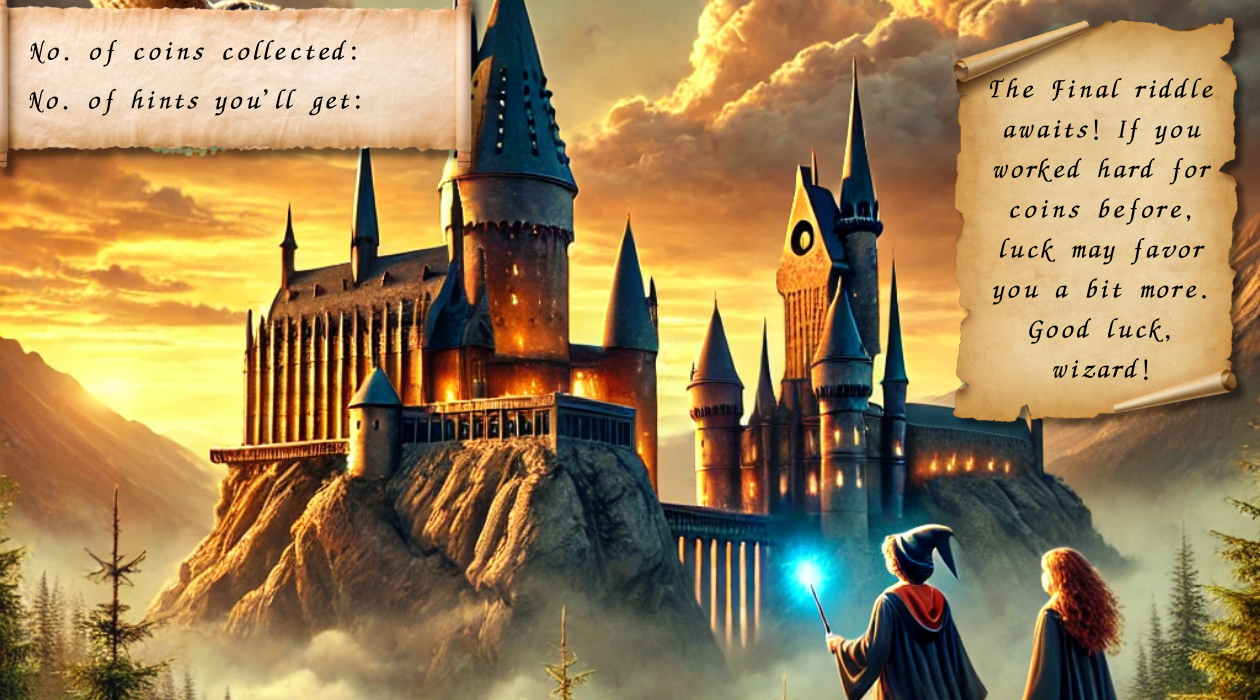
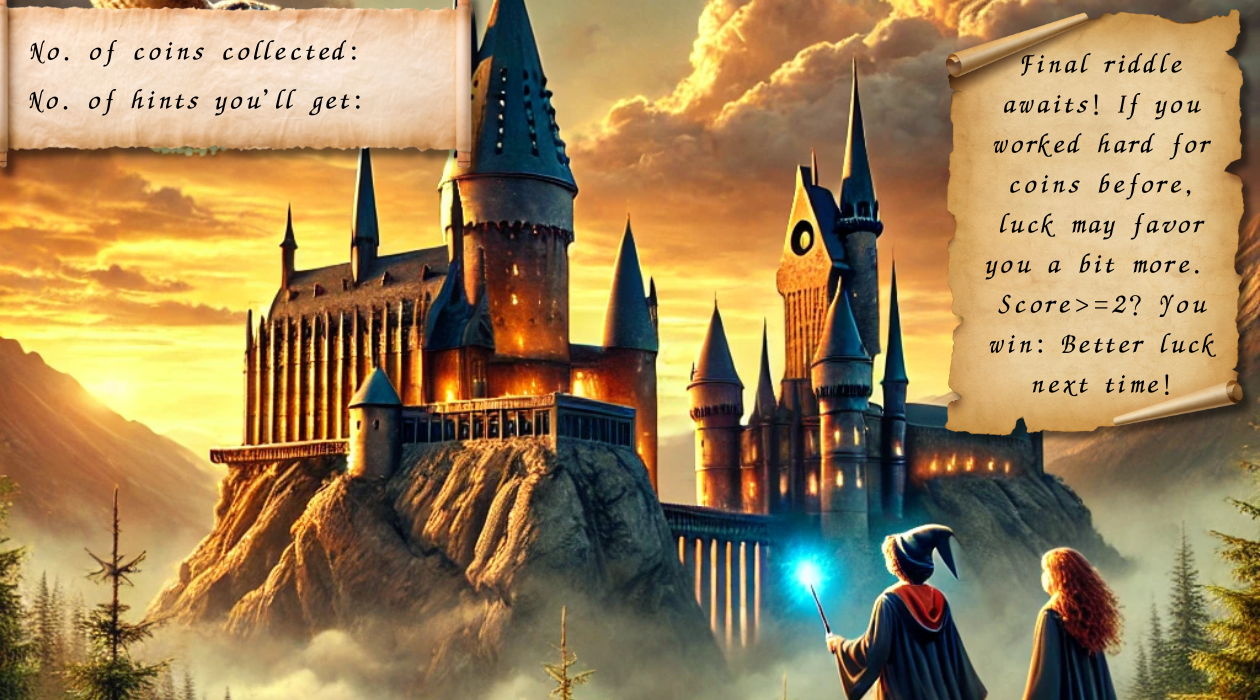
Final Changes

Changed region(s): [[0.7429, 0.0, 1.0, 0.63]]

diff --git a/src/level3.cpp b/src/level3.cpp
@@ -27,6 +27,13 @@ Button hintButton;
 Texture2D hintB;
 Color OLIVE_GREEN = {107, 142, 35, 255};
 
+// Constants for popup
+const float popupDuration = 2.0f; // Popup duration in seconds
+
+// Variables for popup state
+bool showPopup = false;
+float popupTimer = 0.0f;
+
 // Positions and animation variables
 Vector2 firstPosition;
 Vector2 finalPosition;
@@ -38,8 +45,8 @@ int frameSpeed1 = 5;
 bool reachedTarget = false;
 bool riddleComplete = false;
 bool isWon = false;
-bool nohint = false;
-// Voldemort dialog variables
+// bool nohint = false;
+//  Voldemort dialog variables
 const char *prabachan[] = {
     "HAHAHAHA, You're almost there, but until you solve this, you haven't   won.",
     "Let's see if your feeble mind can   unravel this riddle, shall we?",
@@ -137,7 +144,7 @@ void initNewLevel3()
     PlayMusicStream(voldeEntry);
 
     // Initialize hintButton
-    hintButton.SetPosition(12, 200);
+    hintButton.SetPosition(12, 20);
     hintButton.scale = 1.0f;
     frameRec1 = {0.0f, 0.0f, static_cast<float>(voldeBaba.width), static_cast<float>(voldeBaba.height)};
     firstPosition = {0, 0};
@@ -147,7 +154,7 @@ void initNewLevel3()
     frameCounter1 = 0;
     frameSpeed1 = 5;
     reachedTarget = false;
-    nohint = false;
+    // nohint = false;
     hintShown = false;
 
     // Reset Voldemort dialog variables
@@ -284,14 +291,38 @@ void updateLevel3()
     bool mousePressed = IsMouseButtonPressed(MOUSE_LEFT_BUTTON);
     {
         if (hintButton.isPressed(mousePosition, mousePressed, hintButton.position, hintButton.scale, hintB.width, hintB.height))
+        // {
+        //     if (coinsCollected > 0)
+        //     {
+        //         hintShown = true;
+        //     }
+        //     else
+        //     {
+        //       //  nohint = true;
+        //     }
+        // }
         {
-            if (coinsCollected > 0)
+
+            if (coinsCollected <= 0)
             {
-                hintShown = true;
+                // Trigger popup if not enough coins
+                showPopup = true;
+                popupTimer = popupDuration;
             }
             else
             {
-                nohint = true;
+                // Show hint logic
+                hintShown = true;
+            }
+        }
+
+        // Update popup timer
+        if (showPopup)
+        {
+            popupTimer -= GetFrameTime();
+            if (popupTimer <= 0.0f)
+            {
+                showPopup = false; // Hide the popup after the duration
             }
         }
     }
@@ -377,9 +408,9 @@ void drawLevel3()
         }
     }
 
-    if (nohint)
+    if (showPopup)
     {
-        DrawTextEx(fontBold, "You don't have enough coins to buy hint", (Vector2){60, 200}, 30, 2.5, RED);
+        DrawTextEx(fontBold, "You don't have enough coins to buy hint", (Vector2){68, 21}, 30, 2.5, RED);
     }
 }
 

diff --git a/src/level1.cpp b/src/level1.cpp
@@ -154,7 +154,7 @@ void Collectibles::DrawBludgers(int i, Texture2D bludgerTexture)
 Vector2 Collectibles::GenerateRandomPosition()
 {
     float x = GetRandomValue(0, cellCountX - 1);
-    float y = GetRandomValue(0, cellCountY - 1);
+    float y = GetRandomValue(3, cellCountY - 1);
     return Vector2{x, y};
 }
 

diff --git a/src/main.cpp b/src/main.cpp
@@ -14,7 +14,6 @@
 #include "credit.h"
 #include "globals.h"
 #include "button.h"
-// #include "unload.h"
 
 using namespace std;
 

diff --git a/src/Pause.h b/src/Pause.h
@@ -1,4 +1,4 @@
-#ifndef PUASE_H
+#ifndef PAUSE_H
 #define PAUSE_H
 
 void InitPause();

diff --git a/README.md b/README.md
@@ -92,6 +92,9 @@ Through this project, we had the opportunity to apply our understanding of  C++ 
 3. **Level 2**: Continue collecting coins to increase your score and get more hints in the riddle asked in Level 3. Use the snitches collected in Level 1 to remove ghosts and navigate the maze.
 4. **Level 3**: Solve the riddle presented at the end of the maze to win the game.
 
+## Demo:
+[Demo Video](https://www.youtube.com/watch?v=Y8J19nAZby4)
+
 ## Contributors
 
 - [Shristi Pokhrel](https://github.com/Shri-29)
